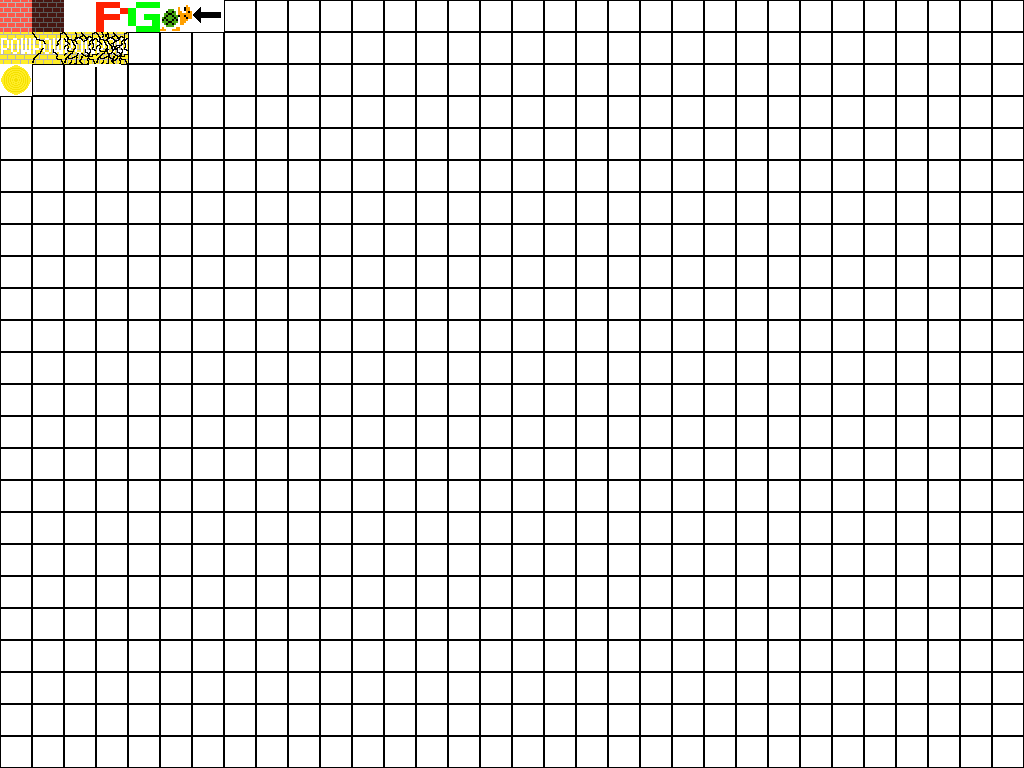
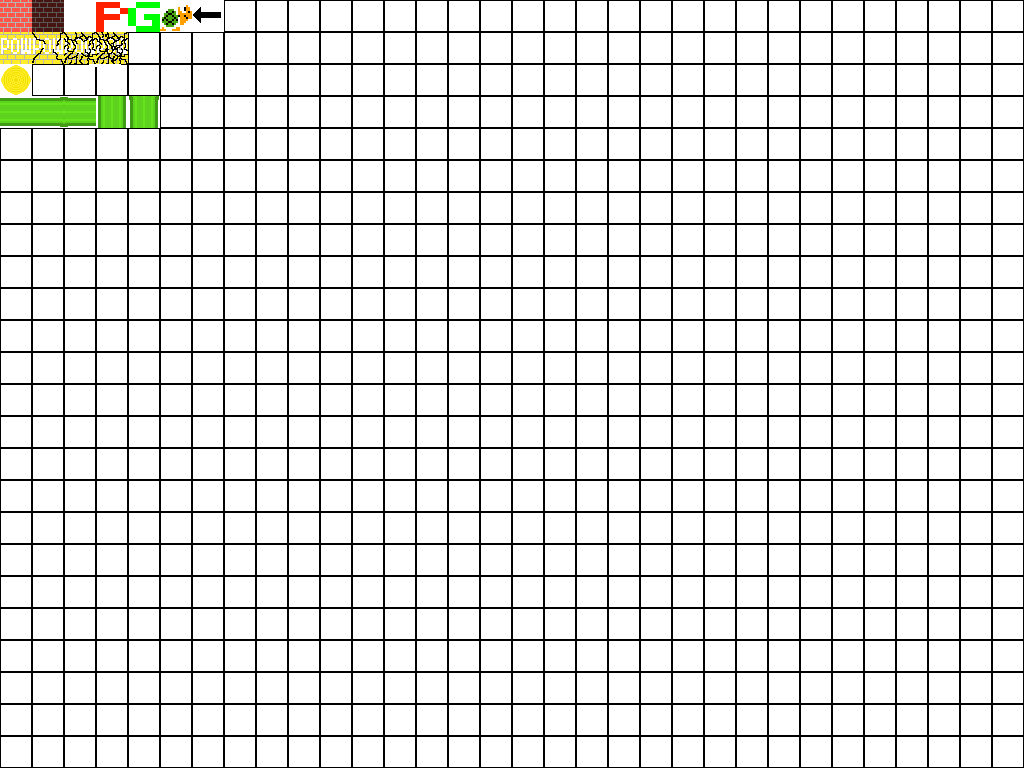
0x38: Added pipe sprites

Changed region(s): [[0.0, 0.125, 0.1562, 0.1875]]

diff --git a/Mario/Mario/Mario.cpp b/Mario/Mario/Mario.cpp
@@ -82,7 +82,8 @@ void Mario::UpdateActor(float deltaTime)
 		int bottomRightTile = GetGame()->GetMap()->GetValueAtTile(bottomTile, rightTile);
 
 		//Top Collisions
-		if ((topLeftTile != AIR && topLeftTile != COIN && topLeftTile != KOOPATURN && topLeftTile != GOLDBRICK) || (topRightTile != AIR && topRightTile != COIN && topRightTile != KOOPATURN && topRightTile != GOLDBRICK)) {
+		if ((topLeftTile != AIR && topLeftTile != COIN && topLeftTile != KOOPATURN && topLeftTile != GOLDBRICK) 
+			|| (topRightTile != AIR && topRightTile != COIN && topRightTile != KOOPATURN && topRightTile != GOLDBRICK)) {
 			newPosition.y = GetPosition().y;
 			mJumpForce = 0.0f;
 			marioSound->PlaySoundEffect(mHeadHitSound);
@@ -107,7 +108,12 @@ void Mario::UpdateActor(float deltaTime)
 		}
 		
 		//Bottom collisions
-		if ((bottomRightTile == AIR && bottomLeftTile == AIR) || (bottomRightTile == DROPBRICK && bottomLeftTile == DROPBRICK) || (bottomRightTile == KOOPATURN || bottomLeftTile == KOOPATURN) || (bottomRightTile == COIN || bottomLeftTile == COIN) || (bottomRightTile == KOOPA || bottomLeftTile == KOOPA)) {
+		if ((bottomRightTile == AIR && bottomLeftTile == AIR) 
+			|| (bottomRightTile == DROPBRICK && bottomLeftTile == DROPBRICK)
+			|| (bottomRightTile == KOOPATURN || bottomLeftTile == KOOPATURN) 
+			|| (bottomRightTile == COIN || bottomLeftTile == COIN) 
+			|| (bottomRightTile == KOOPA || bottomLeftTile == KOOPA)
+			|| (bottomRightTile == LEVELGOAL || bottomLeftTile == LEVELGOAL)) {
 			bGrounded = false;
 			newPosition.y += GRAVITY * deltaTime;
 		}

diff --git a/Mario/Mario/TileMapComponent.cpp b/Mario/Mario/TileMapComponent.cpp
@@ -130,6 +130,37 @@ void TileMapComponent::GenerateObjects() {
 				mOwner->GetGame()->AddCoin(coin);
 				tileRow.push_back(coin);
 			}
+			else if (type == PIPE_HORIZONTAL) {
+				SDL_Rect* pipeSrc = new SDL_Rect{ 0, 96, TILE_WIDTH, TILE_HEIGHT };
+
+				Tile* tile = new Tile(mOwner->GetGame(), pipeSrc, destRect, 0);
+				tileRow.push_back(tile);
+			}
+			else if(type == PIPE_LEFTEND)
+			{
+				SDL_Rect* pipeSrc = new SDL_Rect{ 64, 96, TILE_WIDTH, TILE_HEIGHT };
+
+				Tile* tile = new Tile(mOwner->GetGame(), pipeSrc, destRect, 0);
+				tileRow.push_back(tile);
+			}
+			else if (type == PIPE_RIGHTEND) {
+				SDL_Rect* pipeSrc = new SDL_Rect{ 32, 96, TILE_WIDTH, TILE_HEIGHT };
+
+				Tile* tile = new Tile(mOwner->GetGame(), pipeSrc, destRect, 0);
+				tileRow.push_back(tile);
+			}
+			else if (type == PIPE_VERTICAL) {
+				SDL_Rect* pipeSrc = new SDL_Rect{ 96, 96, TILE_WIDTH, TILE_HEIGHT };
+
+				Tile* tile = new Tile(mOwner->GetGame(), pipeSrc, destRect, 0);
+				tileRow.push_back(tile);
+			}
+			else if (type == PIPE_VERTICAL_TOP) {
+				SDL_Rect* pipeSrc = new SDL_Rect{ 128, 96, TILE_WIDTH, TILE_HEIGHT };
+
+				Tile* tile = new Tile(mOwner->GetGame(), pipeSrc, destRect, 0);
+				tileRow.push_back(tile);
+			}
 			else {
 
 			}

diff --git a/Mario/Mario/TileValues.h b/Mario/Mario/TileValues.h
@@ -9,3 +9,8 @@
 #define KOOPATURN 6
 #define GOLDBRICK 32
 #define COIN 64
+#define PIPE_HORIZONTAL 96
+#define PIPE_RIGHTEND 97
+#define PIPE_LEFTEND 98
+#define PIPE_VERTICAL 99
+#define PIPE_VERTICAL_TOP 100
